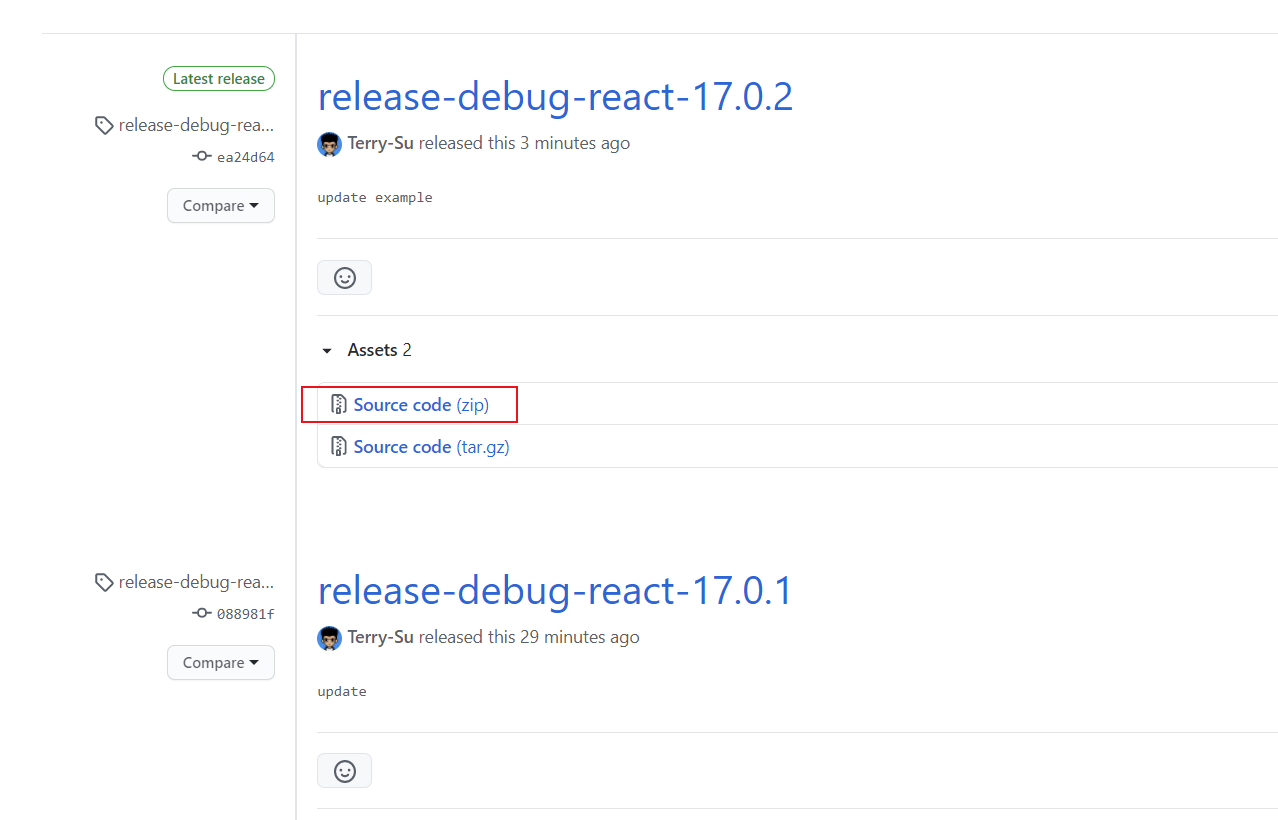
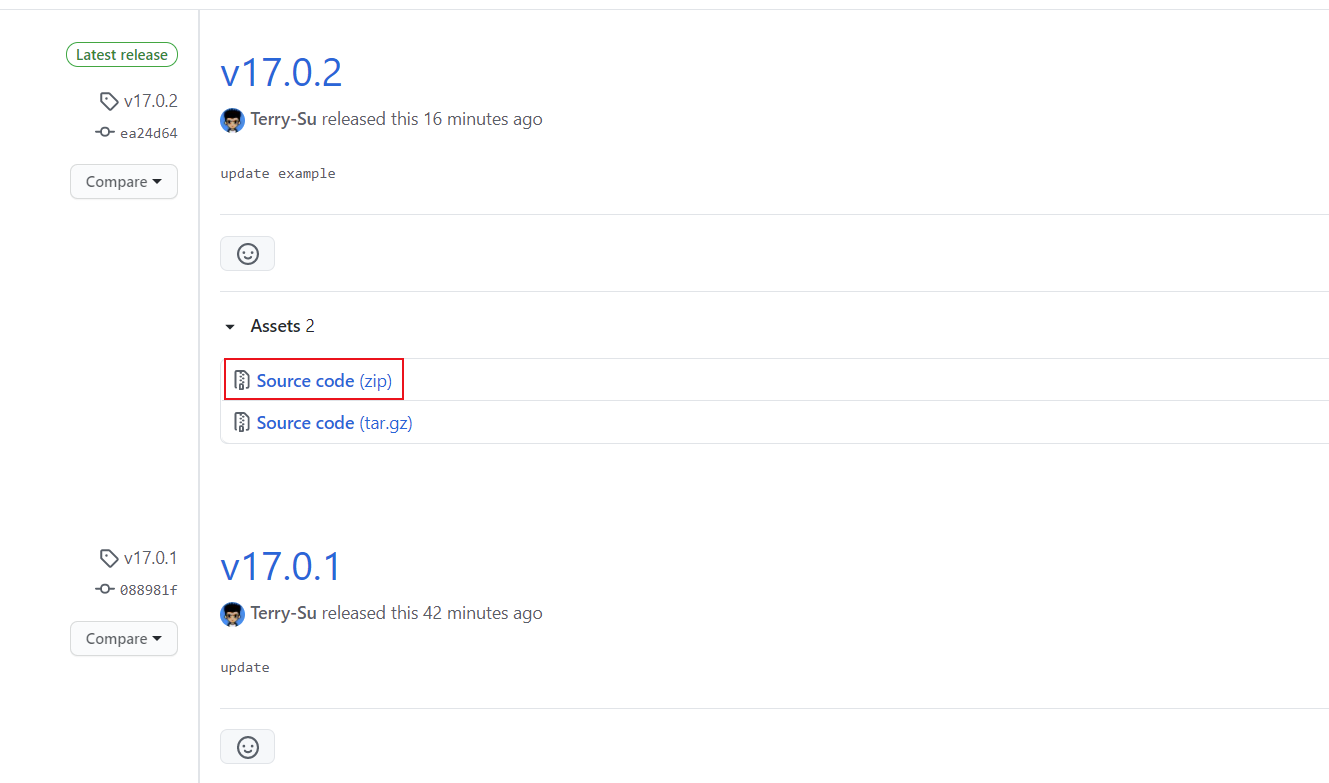
update README

diff --git a/README.md b/README.md
@@ -14,12 +14,12 @@
 ![](https://terry-su.github.io/debug-react-source-code/assets/images/release-download.png)
 
 版本列表（持续更新）：
-* [debug-react-17.0.2](https://github.com/Terry-Su/debug-react-source-code/releases/tag/release-debug-react-17.0.2)
-* [debug-react-17.0.1](https://github.com/Terry-Su/debug-react-source-code/releases/tag/release-debug-react-17.0.1)
-* [debug-react-17.0.0](https://github.com/Terry-Su/debug-react-source-code/releases/tag/release-debug-react-17.0.0)
-* [debug-react-16.14.0](https://github.com/Terry-Su/debug-react-source-code/releases/tag/release-debug-react-16.14.0)
-* [debug-react-16.13.1](https://github.com/Terry-Su/debug-react-source-code/releases/tag/release-debug-react-16.13.1)
-*  [debug-react-16.6.0](https://github.com/Terry-Su/debug-react-source-code/releases/tag/release-debug-react-16.6.0)
+* [debug-react-source-code-17.0.2](https://github.com/Terry-Su/debug-react-source-code/releases/tag/v17.0.2)
+* [debug-react-source-code-17.0.1](https://github.com/Terry-Su/debug-react-source-code/releases/tag/v17.0.1)
+* [debug-react-source-code-17.0.0](https://github.com/Terry-Su/debug-react-source-code/releases/tag/v17.0.0)
+* [debug-react-source-code-16.14.0](https://github.com/Terry-Su/debug-react-source-code/releases/tag/v16.14.0)
+* [debug-react-source-code-16.13.1](https://github.com/Terry-Su/debug-react-source-code/releases/tag/v16.13.1)
+* [debug-react-source-code-16.6.0](https://github.com/Terry-Su/debug-react-source-code/releases/tag/v16.6.0)
 
 2 . 将压缩包解压后，用vscode打开该文件夹。vscode需安装[Debugger for Chrome](https://marketplace.visualstudio.com/items?itemName=msjsdiag.debugger-for-chrome)插件，用于在vscode对源码添加断点
 
